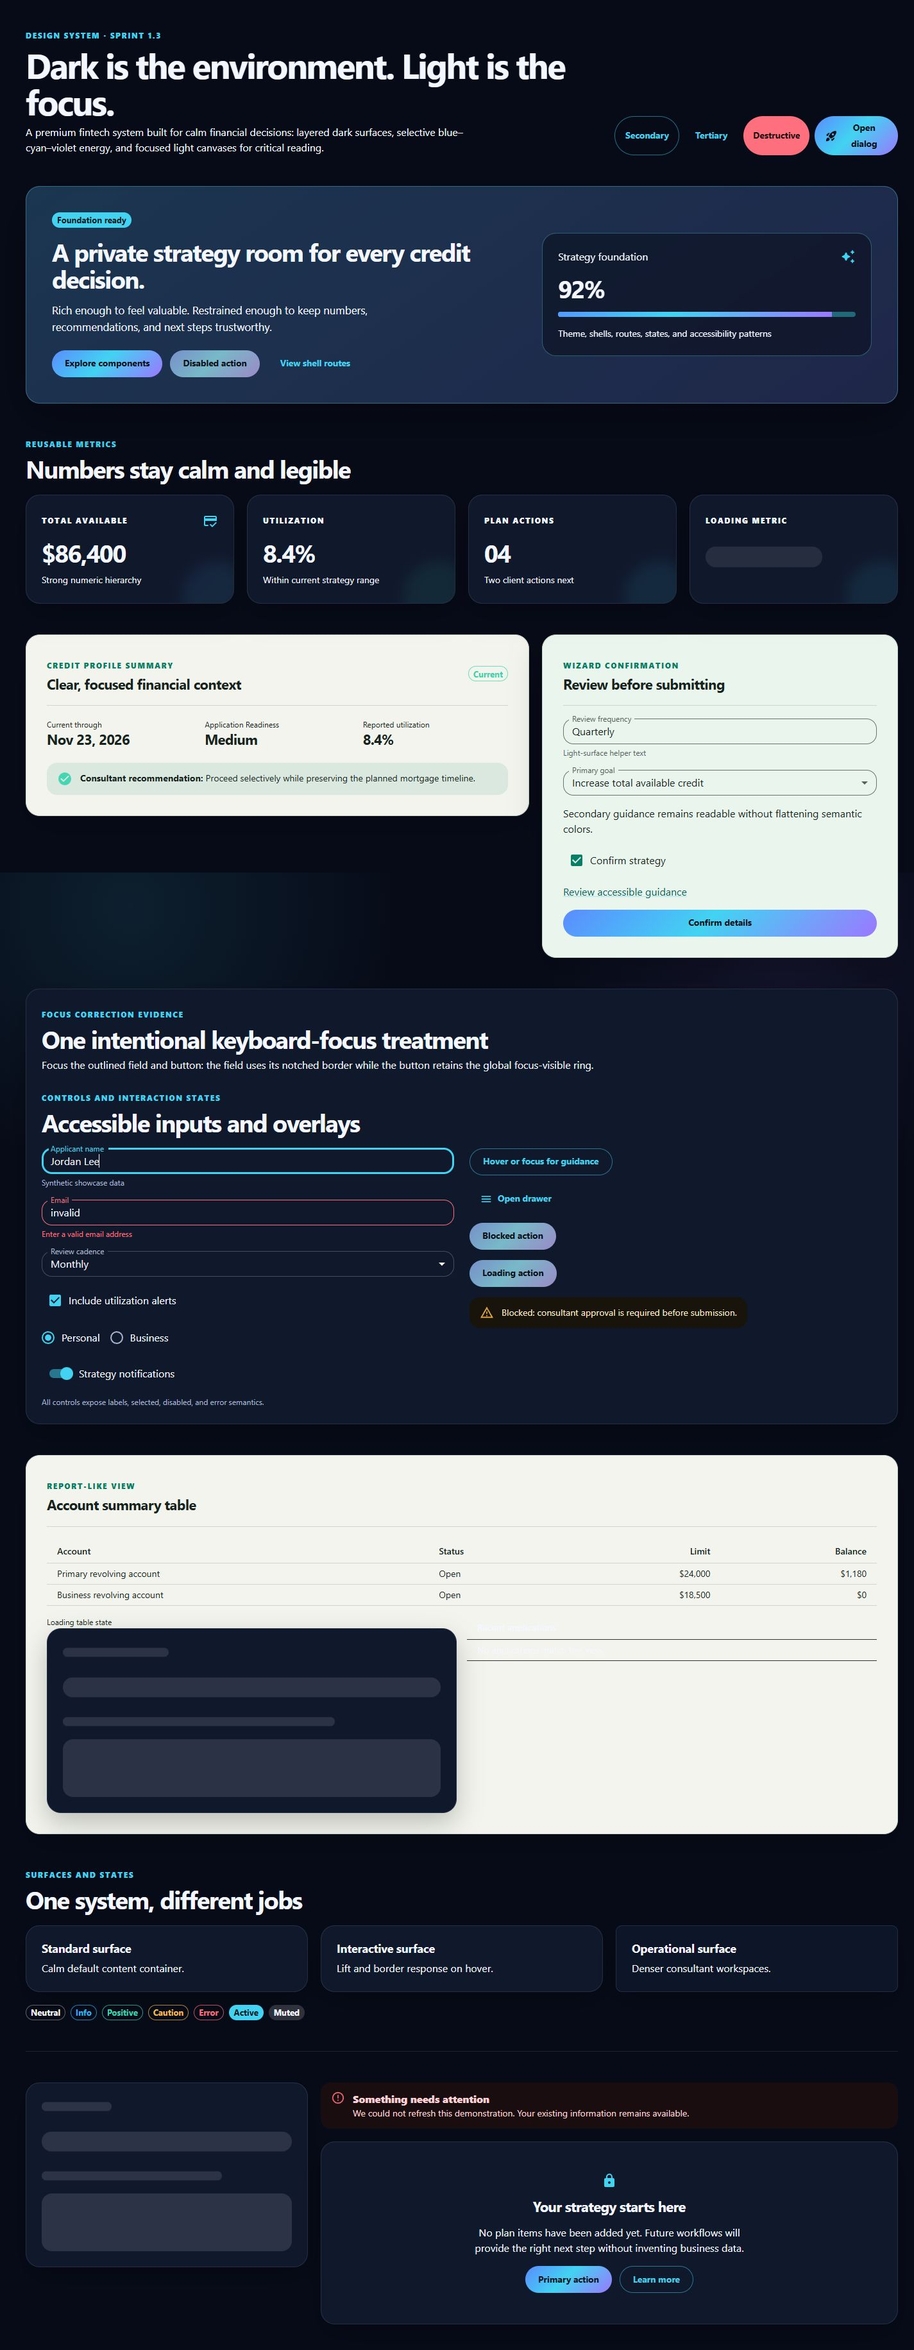
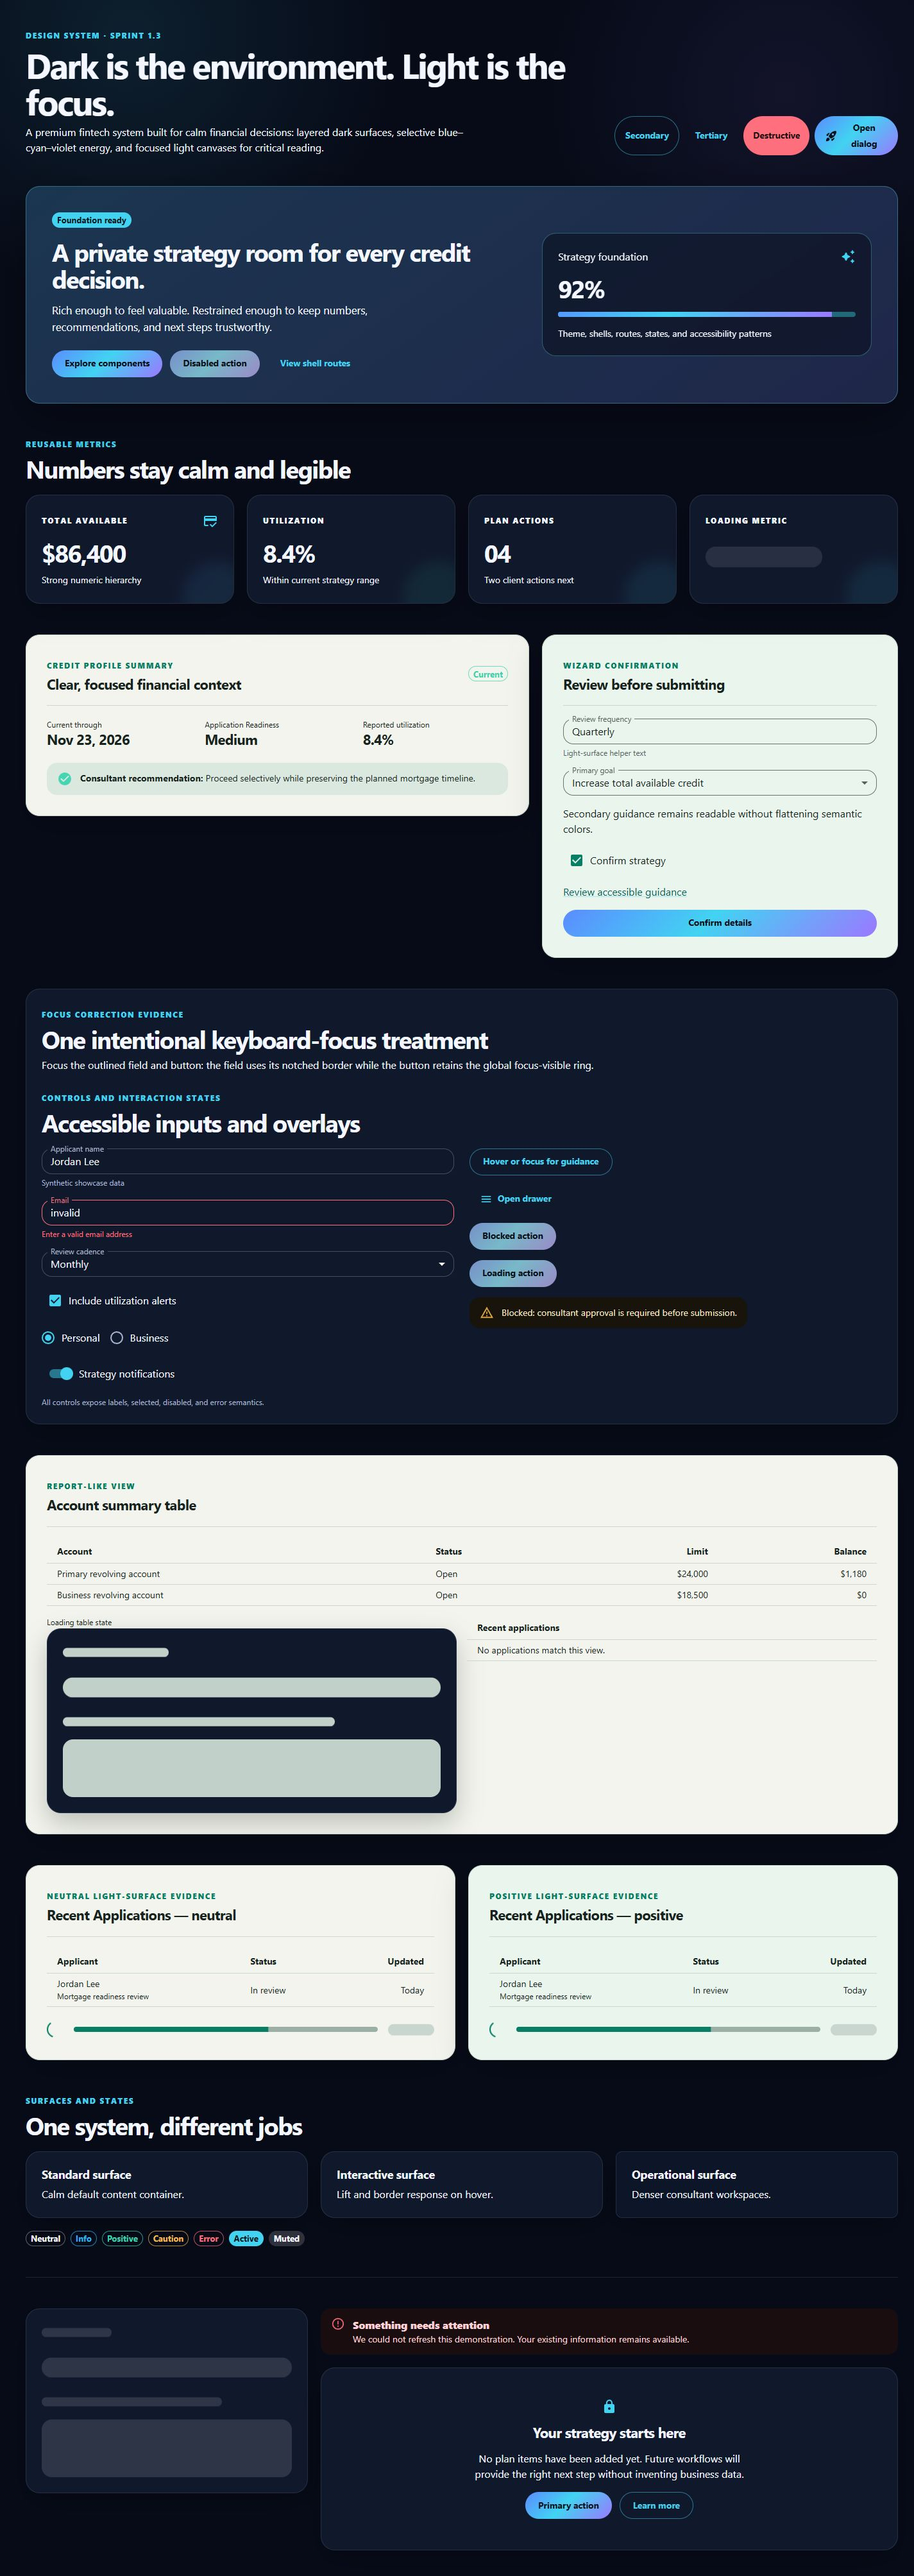
fix(web): extend light surface tables and loaders

diff --git a/apps/web/src/pages/dev/DesignSystemPage.tsx b/apps/web/src/pages/dev/DesignSystemPage.tsx
@@ -9,6 +9,7 @@ import {
   Box,
   Button,
   Checkbox,
+  CircularProgress,
   Divider,
   Drawer,
   FormControlLabel,
@@ -19,6 +20,7 @@ import {
   MenuItem,
   Radio,
   RadioGroup,
+  Skeleton,
   Stack,
   Table,
   TableBody,
@@ -373,6 +375,58 @@ export function DesignSystemPage() {
           </Grid>
         </Grid>
       </FocusSurface>
+      <Grid container spacing={2.5}>
+        {(['neutral', 'positive'] as const).map((variant) => (
+          <Grid key={variant} size={{ xs: 12, lg: 6 }}>
+            <FocusSurface
+              eyebrow={`${variant} light-surface evidence`}
+              title={`Recent Applications — ${variant}`}
+              variant={variant}
+            >
+              <Table size="small" aria-label={`Recent Applications ${variant}`}>
+                <TableHead>
+                  <TableRow>
+                    <TableCell>Applicant</TableCell>
+                    <TableCell>Status</TableCell>
+                    <TableCell align="right">Updated</TableCell>
+                  </TableRow>
+                </TableHead>
+                <TableBody>
+                  <TableRow>
+                    <TableCell>
+                      Jordan Lee
+                      <Typography
+                        variant="caption"
+                        color="text.secondary"
+                        sx={{ display: 'block' }}
+                      >
+                        Mortgage readiness review
+                      </Typography>
+                    </TableCell>
+                    <TableCell>In review</TableCell>
+                    <TableCell align="right">Today</TableCell>
+                  </TableRow>
+                </TableBody>
+              </Table>
+              <Stack
+                direction="row"
+                spacing={2}
+                sx={{ alignItems: 'center', mt: 2.5 }}
+                aria-label={`${variant} light-surface loading indicators`}
+              >
+                <CircularProgress size={26} aria-label={`${variant} circular loading`} />
+                <LinearProgress
+                  variant="determinate"
+                  value={64}
+                  aria-label={`${variant} progress 64 percent`}
+                  sx={{ flex: 1, height: 8, borderRadius: 99 }}
+                />
+                <Skeleton width={72} height={30} />
+              </Stack>
+            </FocusSurface>
+          </Grid>
+        ))}
+      </Grid>
       <Box>
         <Typography variant="overline" color="primary">
           Surfaces and states

diff --git a/apps/web/src/App.test.tsx b/apps/web/src/App.test.tsx
@@ -161,6 +161,12 @@ describe('application shells', () => {
     expect(screen.getByText(/blocked: consultant approval/i)).toBeInTheDocument();
     expect(screen.getByText(/light-surface helper text/i)).toBeInTheDocument();
     expect(screen.getByRole('link', { name: /review accessible guidance/i })).toBeInTheDocument();
+    expect(screen.getByRole('table', { name: /recent applications neutral/i })).toBeInTheDocument();
+    expect(
+      screen.getByRole('table', { name: /recent applications positive/i }),
+    ).toBeInTheDocument();
+    expect(screen.getByLabelText(/neutral circular loading/i)).toBeInTheDocument();
+    expect(screen.getByLabelText(/positive progress 64 percent/i)).toBeInTheDocument();
   });
 
   test('uses one central focus treatment for outlined fields while retaining the global ring', () => {
@@ -191,6 +197,23 @@ describe('application shells', () => {
     );
     expect(focusSurfaceContentStyles).toHaveProperty(
       '& .MuiCheckbox-root, & .MuiRadio-root, & .MuiSwitch-root',
+    );
+    expect(focusSurfaceContentStyles).toMatchObject({
+      '& .MuiTableCell-root': {
+        color: designTokens.color.focusText,
+        borderColor: designTokens.color.focusBorder,
+      },
+      '& .MuiTableCell-head': {
+        color: designTokens.color.focusText,
+        fontWeight: designTokens.typography.weight.strong,
+      },
+      '& .MuiCircularProgress-root': { color: designTokens.color.focusAccent },
+      '& .MuiLinearProgress-root': { backgroundColor: designTokens.color.focusTrack },
+      '& .MuiLinearProgress-bar': { backgroundColor: designTokens.color.focusAccent },
+      '& .MuiSkeleton-root': { backgroundColor: designTokens.color.focusSkeleton },
+    });
+    expect(focusSurfaceContentStyles).toHaveProperty(
+      '& .MuiTableSortLabel-root, & .MuiTableSortLabel-icon',
     );
   });
 

diff --git a/apps/web/src/components/common/FocusSurface.tsx b/apps/web/src/components/common/FocusSurface.tsx
@@ -40,6 +40,27 @@ export const focusSurfaceContentStyles = {
   '& .MuiFormControlLabel-label': { color: designTokens.color.focusText },
   '& .MuiLink-root': { color: designTokens.color.focusLink },
   '& .MuiDivider-root': { borderColor: designTokens.color.focusBorder },
+  '& .MuiTableCell-root': {
+    color: designTokens.color.focusText,
+    borderColor: designTokens.color.focusBorder,
+  },
+  '& .MuiTableCell-head': {
+    color: designTokens.color.focusText,
+    fontWeight: designTokens.typography.weight.strong,
+  },
+  '& .MuiTableCell-root .MuiTypography-colorTextSecondary': {
+    color: designTokens.color.focusTextMuted,
+  },
+  '& .MuiTableSortLabel-root, & .MuiTableSortLabel-icon': {
+    color: designTokens.color.focusTextMuted,
+  },
+  '& .MuiTableSortLabel-root:hover, & .MuiTableSortLabel-root.Mui-active': {
+    color: designTokens.color.focusAccent,
+  },
+  '& .MuiCircularProgress-root': { color: designTokens.color.focusAccent },
+  '& .MuiLinearProgress-root': { backgroundColor: designTokens.color.focusTrack },
+  '& .MuiLinearProgress-bar': { backgroundColor: designTokens.color.focusAccent },
+  '& .MuiSkeleton-root': { backgroundColor: designTokens.color.focusSkeleton },
 } as const;
 
 export function FocusSurface({

diff --git a/apps/web/src/theme/designTokens.ts b/apps/web/src/theme/designTokens.ts
@@ -34,6 +34,8 @@ export const designTokens = {
     focusAccent: '#087f65',
     focusLink: '#075f55',
     focusError: '#a12b2b',
+    focusTrack: '#9bafa6',
+    focusSkeleton: '#c7d5ce',
   },
   gradient: {
     brand: 'linear-gradient(135deg, #5b8cff 0%, #42d3f2 46%, #9b78ff 100%)',
